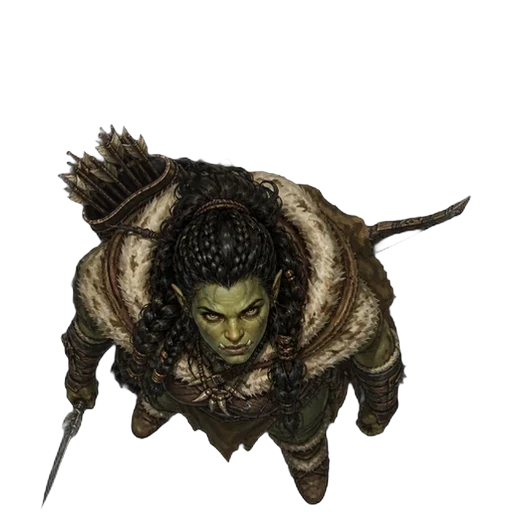
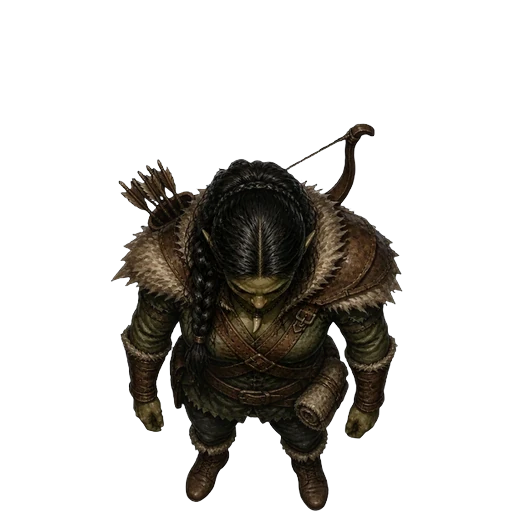
Regenerate hunter-vessa token with proper top-down pose (v0.5.9)
Vessa Coldtrail was still looking up at the sky. Replace with
true bird's-eye token matching Mol Deeprow style.

Changed region(s): [[0.0625, 0.2188, 0.9375, 1.0]]

diff --git a/scripts/main.js b/scripts/main.js
@@ -14,7 +14,7 @@ console.log(`${LOG_PREFIX} Module scripts loaded`);
 
 Hooks.once("init", () => {
   try {
-    const version = game.modules.get(MODULE_ID)?.version ?? "0.5.8";
+    const version = game.modules.get(MODULE_ID)?.version ?? "0.5.9";
     console.log(`${LOG_PREFIX} Initializing ${MODULE_TITLE} v${version}`);
     registerTownForgeSettings();
   } catch (error) {
@@ -48,7 +48,7 @@ Hooks.once("ready", async () => {
     npcService,
     shopService,
     shop: shopApi,
-    version: game.modules.get(MODULE_ID)?.version ?? "0.5.7"
+    version: game.modules.get(MODULE_ID)?.version ?? "0.5.9"
   });
 });
 
